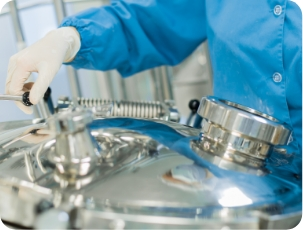
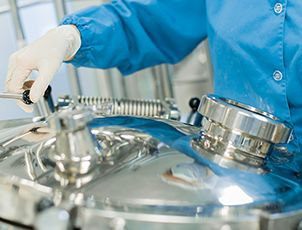
change imgs

diff --git a/index.html b/index.html
@@ -35,7 +35,8 @@
                     <ul class="sub-menu">
                         <li class="menu__item"><a href="#product1" class="menu__link">Product 1</a></li>
                         <li class="menu__item"><a href="#product2" class="menu__link">Product 2</a></li>
-                    </ul></li>
+                    </ul>
+                </li>
                 <li class="menu__item"><a href="#gallery" class="menu__link">Gallery</a></li>
             </ul>
         </div>
@@ -51,38 +52,21 @@
                     <h2 class="title"> Your Partner <br> In Diagnostic <br> Imaging</h2>
                     <a href="#" class="btn btn_main">FARMAK WORLDWIDE</a>
                     <div class="banner-img-wrap banner-img-wrap_1">
-                        <picture>
-                            <source srcset="assets/img/b-1sm.jpg" media="(max-width: 640px)">
-                            <img class="banner-img" src="assets/img/b-1.jpg" alt="" width="167" height="91">
-                        </picture>
+                        <img class="banner-img" src="assets/img/b-1.jpg" alt="" width="185" height="101">
                     </div>
                     <div class="banner-img-wrap banner-img-wrap_2">
-                          <picture>
-                            <source srcset="assets/img/b-2sm.jpg" media="(max-width: 640px)">
-                              <img class="banner-img" src="assets/img/b-2.jpg" alt="" width="173" height="173">
-                        </picture>
+
+                        <img class="banner-img" src="assets/img/b-2.jpg" alt="" width="172" height="172">
 
                     </div>
                     <div class="banner-img-wrap banner-img-wrap_3">
-                          <picture>
-                            <source srcset="assets/img/b-3sm.jpg" media="(max-width: 640px)">
-                              <img class="banner-img" src="assets/img/b-3.jpg" alt="" width="495" height="270">
-                        </picture>
-
+                        <img class="banner-img" src="assets/img/b-3.jpg" alt="" width="495" height="270">
                     </div>
                     <div class="banner-img-wrap banner-img-wrap_4">
-                          <picture>
-                            <source srcset="assets/img/b-4sm.jpg" media="(max-width: 640px)">
-                              <img class="banner-img" src="assets/img/b-4.jpg" alt="" width="182" height="180">
-                        </picture>
-
+                        <img class="banner-img" src="assets/img/b-4.jpg" alt="" width="101" height="101">
                     </div>
                     <div class="banner-img-wrap banner-img-wrap_5">
-                          <picture>
-                            <source srcset="assets/img/b-5sm.jpg" media="(max-width: 640px)">
-                              <img class="banner-img" src="assets/img/b-5.jpg" alt="" width="297" height="162">
-                        </picture>
-
+                        <img class="banner-img" src="assets/img/b-5.jpg" alt="" width="297" height="162">
                     </div>
                 </div>
             </div>
@@ -92,8 +76,9 @@
                 <h2 class="title">Dotavist</h2>
                 <div class="grid-layout__row">
                     <div class="grid-layout__col-left">
-                        <div class="section-product__img-wrap"  style="background-image: url(assets/img/bg-prod.svg);">
-                            <img src="assets/img/prod1.png" alt="Dotavist" class="section-product__img" width="437" height="325" loading=lazy>
+                        <div class="section-product__img-wrap" style="background-image: url(assets/img/bg-prod.svg);">
+                            <img src="assets/img/prod1.png" alt="Dotavist" class="section-product__img" width="437"
+                                 height="325" loading=lazy>
                         </div>
                     </div>
                     <div class="grid-layout__col-right">
@@ -120,13 +105,14 @@
                 </div>
             </div>
         </section>
-        <section id="product2"  class="js-scroll-section section section-product">
+        <section id="product2" class="js-scroll-section section section-product">
             <div class="container grid-layout">
                 <h2 class="title">Farmadol</h2>
                 <div class="grid-layout__row">
                     <div class="grid-layout__col-left" style="background-image: url(assets/img/bg-prod2.svg);">
                         <div class="section-product__img-wrap">
-                            <img src="assets/img/prod1.png" alt="Dotavist" class="section-product__img" width="437" height="325" loading=lazy>
+                            <img src="assets/img/prod1.png" alt="Dotavist" class="section-product__img" width="437"
+                                 height="325" loading=lazy>
                         </div>
                     </div>
                     <div class="grid-layout__col-right">
@@ -204,8 +190,8 @@
     </main>
 
     <!--footer-->
-    <footer id="contacts"  class="js-scroll-section footer">
-        <div  class="container">
+    <footer id="contacts" class="js-scroll-section footer">
+        <div class="container">
             <div class="d-flex">
                 <div class="part">
                     <h3 class="title_md">JSC Farmak</h3>
